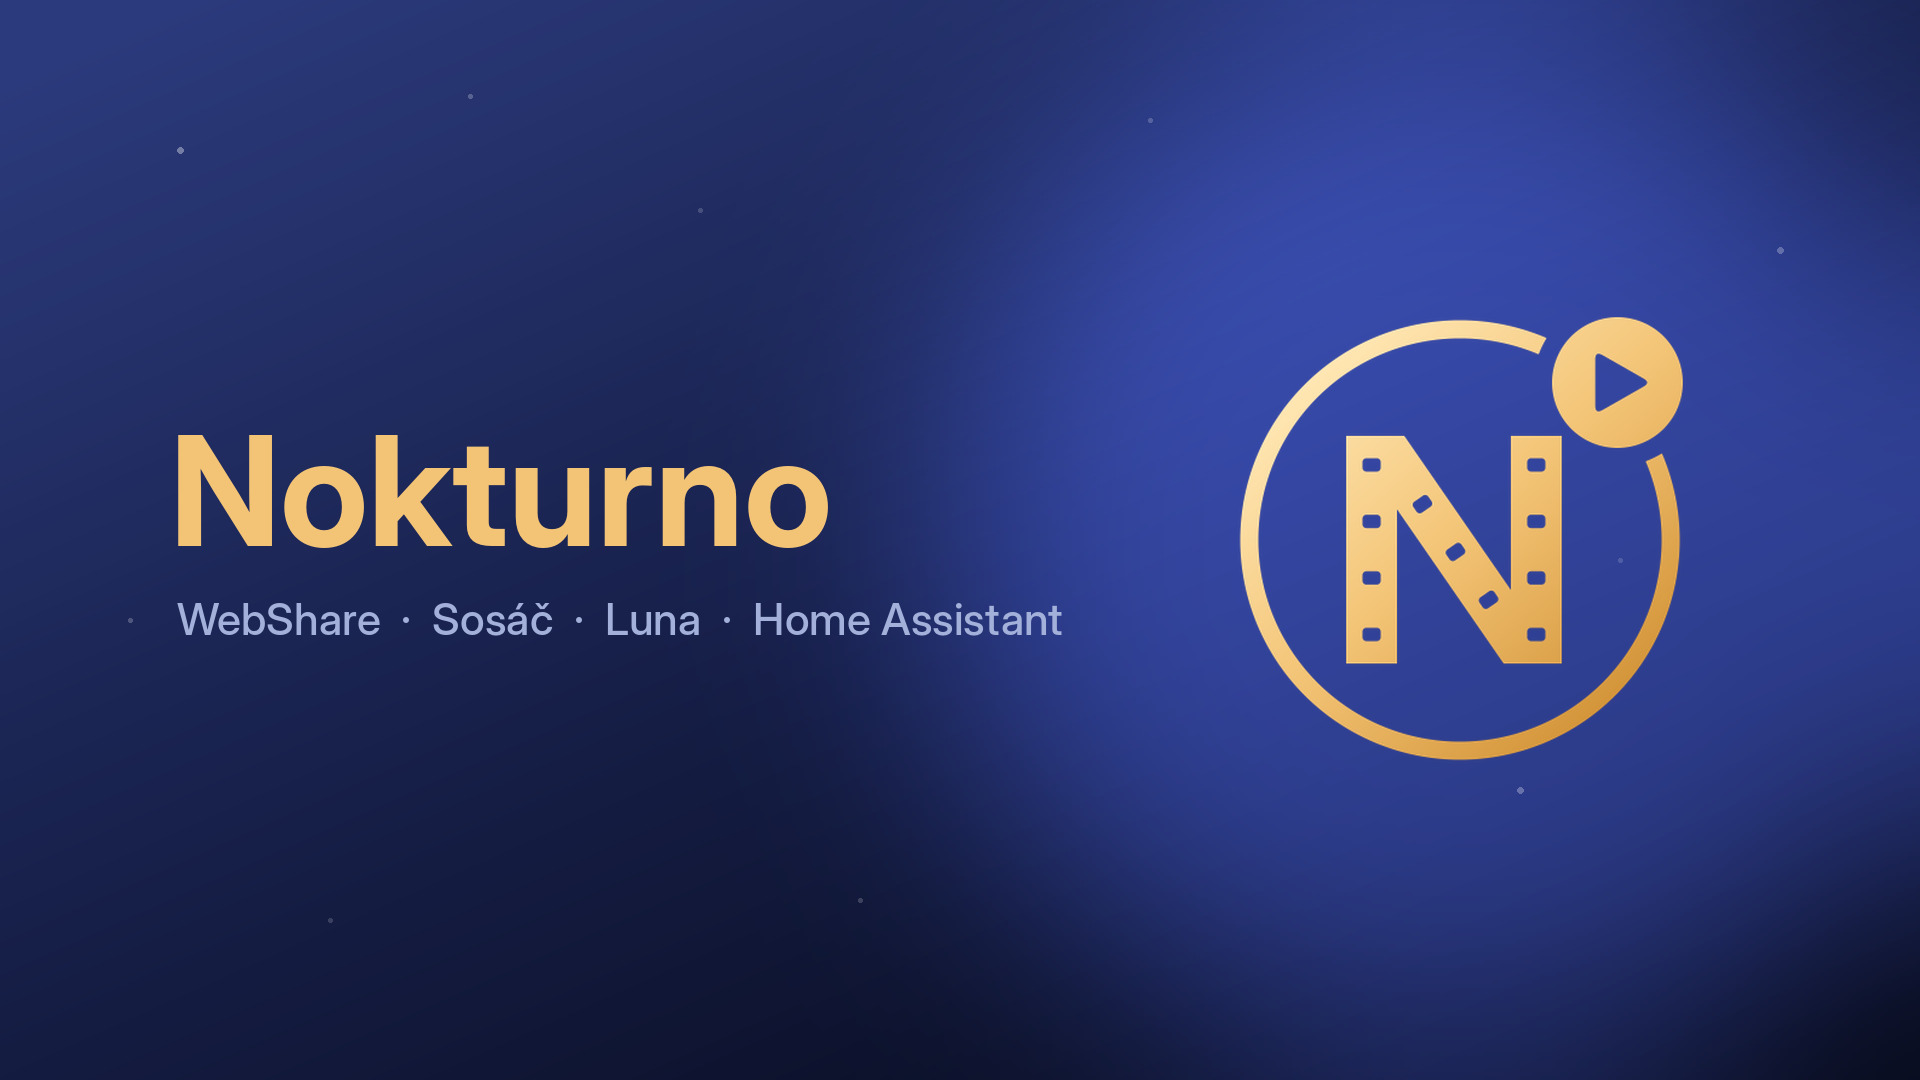
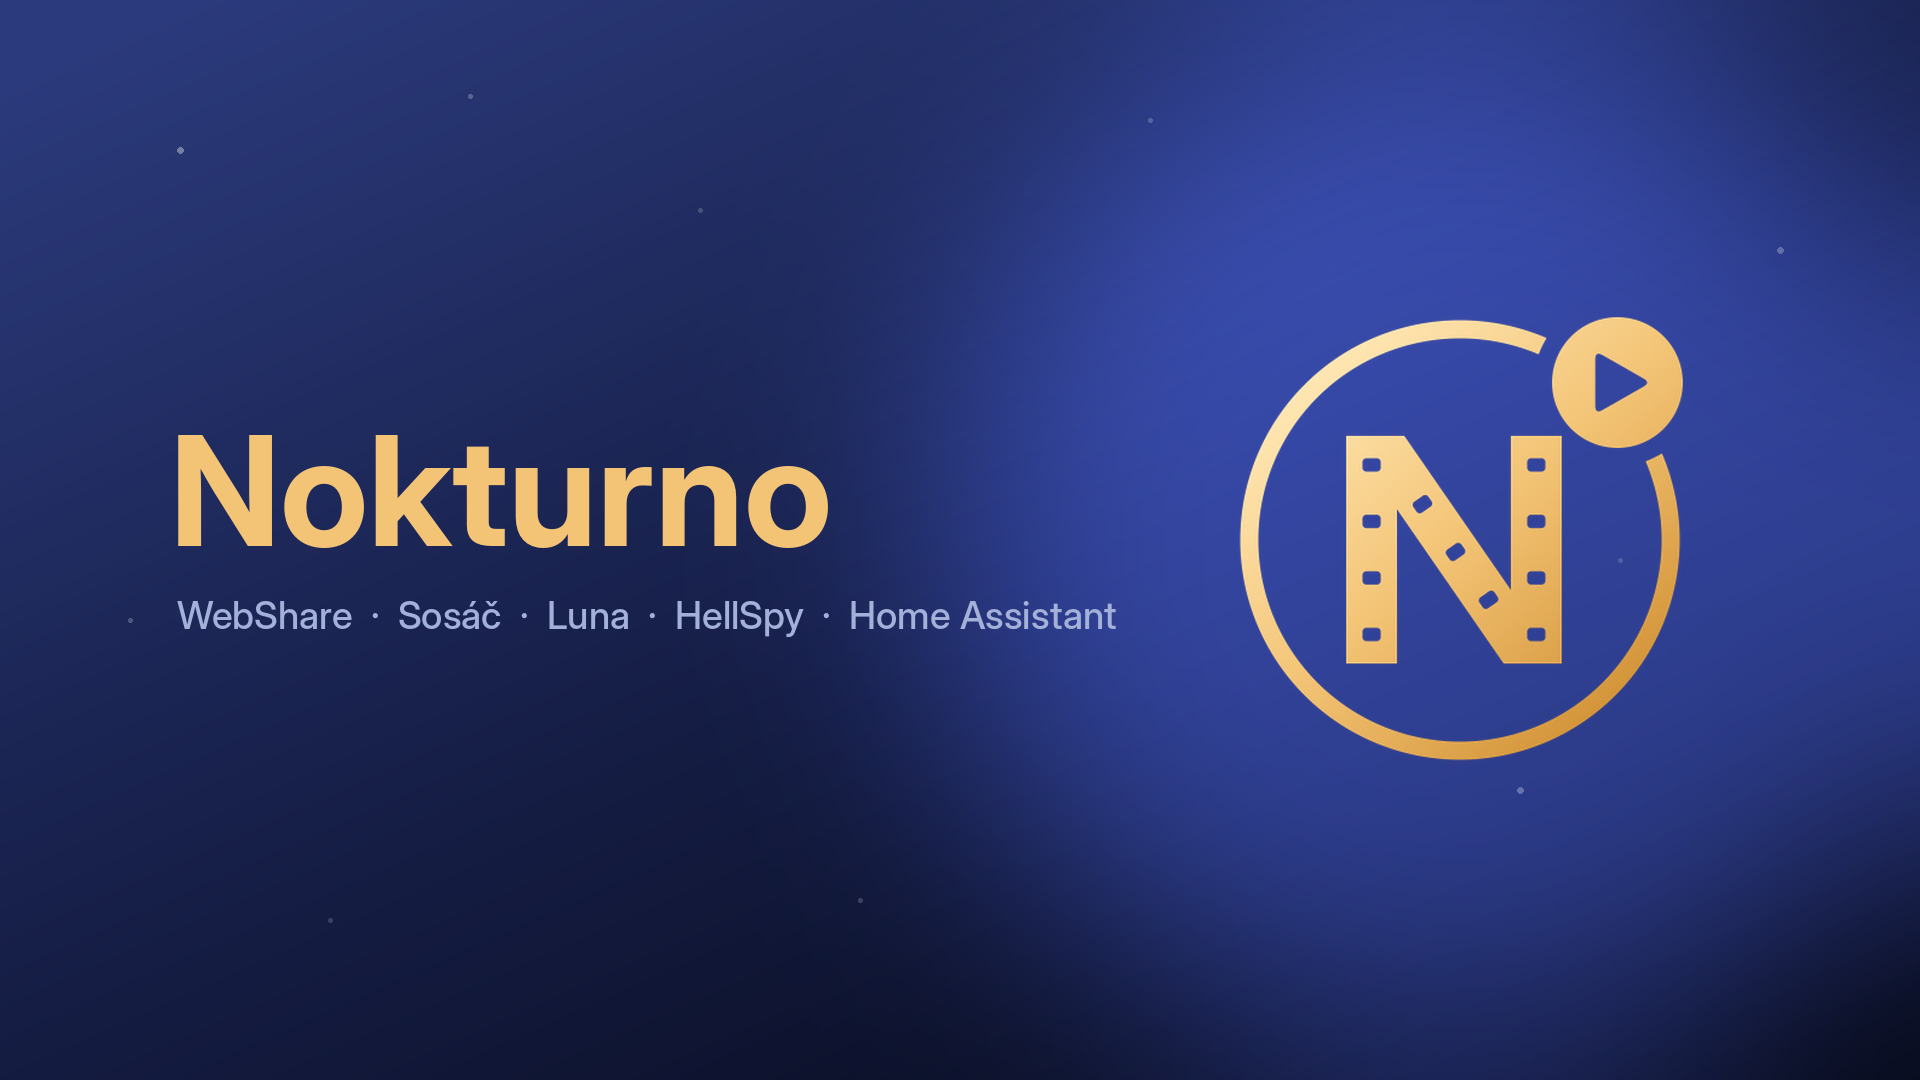
Pozadí: do podtitulku přibyl HellSpy
Řádek se zmenšuje, dokud se vejde vedle značky — s dalším zdrojem
by jinak zajel pod logo.

Changed region(s): [[0.0938, 0.55, 0.5938, 0.6111]]

diff --git a/tools/make_icon.py b/tools/make_icon.py
@@ -204,8 +204,16 @@ def make_fanart(path):
     sky.paste(logo, (1150, 230), logo)
 
     dr.text((170, 398), "Nokturno", font=font("InterDisplay-Bold.otf", 152), fill=(243, 196, 118))
-    dr.text((177, 592), "WebShare  ·  Sosáč  ·  Luna  ·  Home Assistant",
-            font=font("InterDisplay-Medium.otf", 44), fill=(163, 176, 218))
+    # Podtitulek se musí vejít vedle značky, proto se písmo zmenšuje, dokud
+    # se řádek nevejde — s přibývajícími zdroji by jinak zajel pod logo.
+    sub = "WebShare  ·  Sosáč  ·  Luna  ·  HellSpy  ·  Home Assistant"
+    size = 44
+    while size > 26:
+        f = font("InterDisplay-Medium.otf", size)
+        if dr.textlength(sub, font=f) <= 950:
+            break
+        size -= 2
+    dr.text((177, 592), sub, font=font("InterDisplay-Medium.otf", size), fill=(163, 176, 218))
     sky.save(path, quality=92, subsampling=0)
 
 
